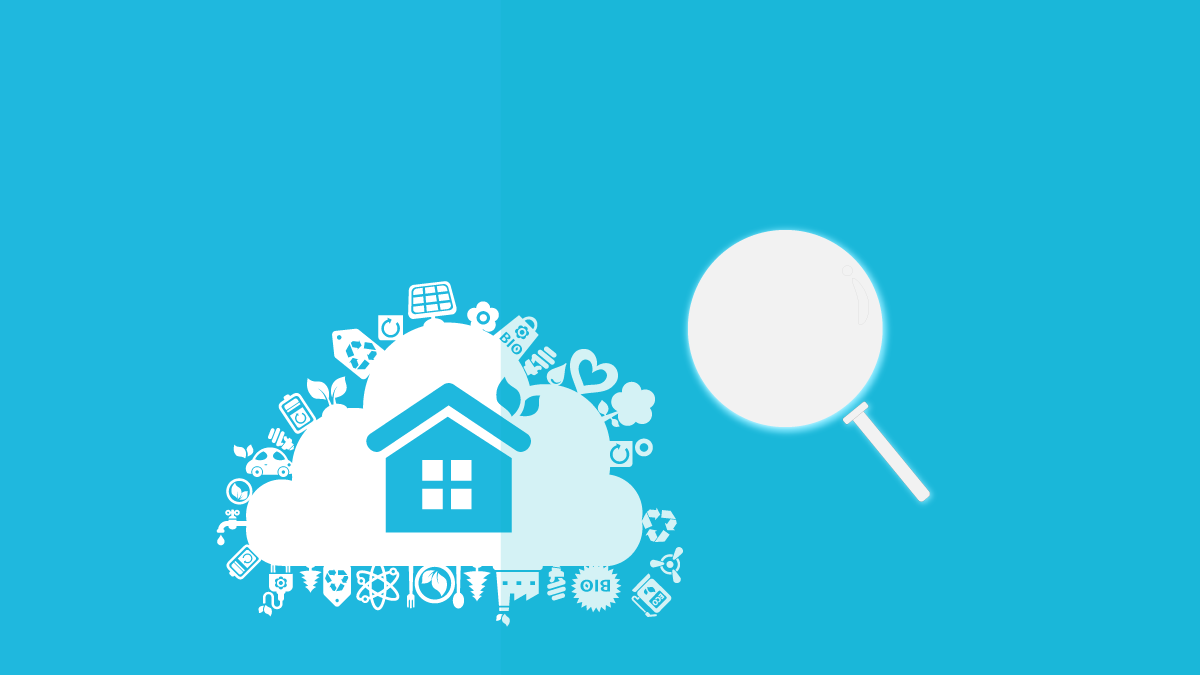
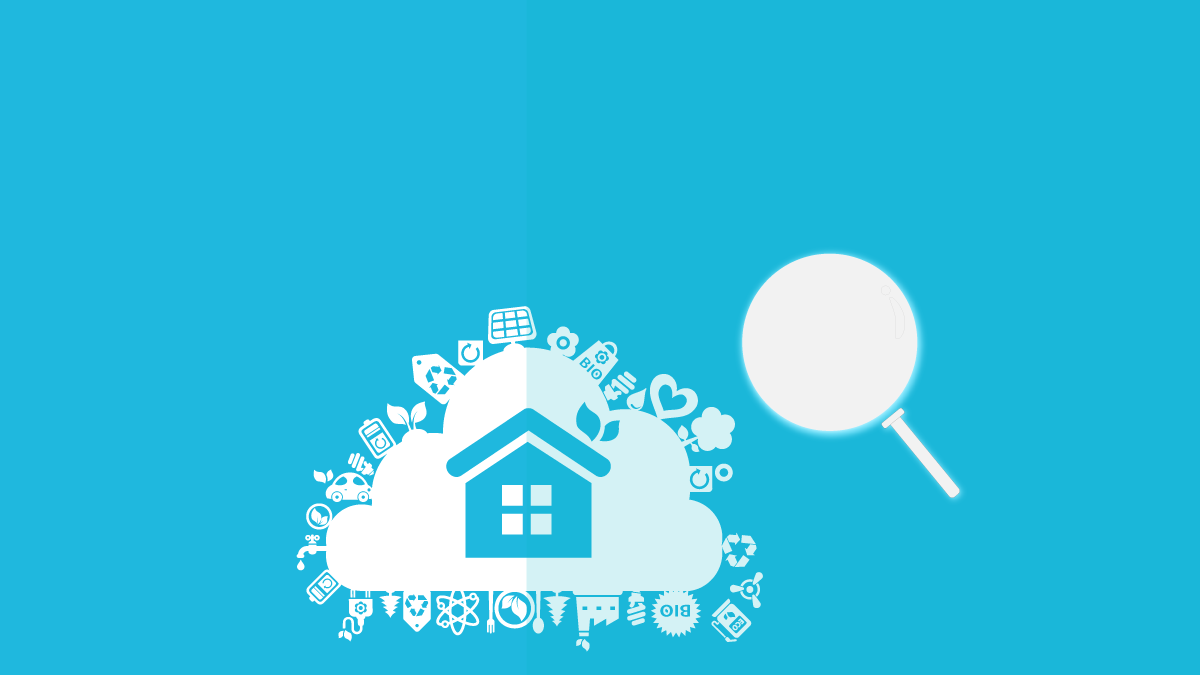
メイン画像を微調整

Changed region(s): [[0.1542, 0.3111, 0.8017, 0.9644]]

diff --git a/style.css b/style.css
@@ -252,7 +252,7 @@ section#pilot div.button:hover{
 
 @media screen and (min-width:1500px) and (max-width:2500px){
     section#main {
-        background: url(img/ho.png) no-repeat center top -480px /cover;
+        background: url(img/ho.png) no-repeat center top 0 /cover;
     }
 }
 
